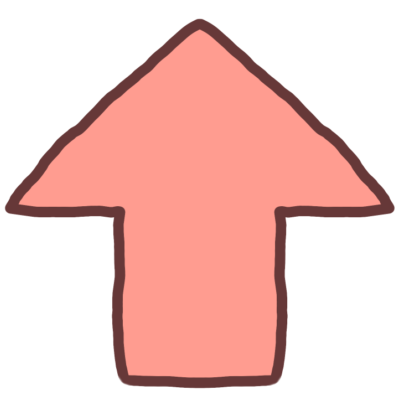
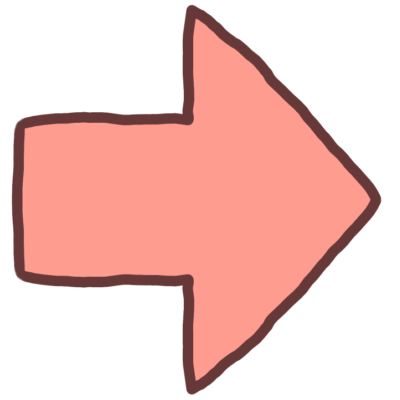
Mapほぼ完成

Changed region(s): [[0.0, 0.0, 0.99, 0.99], [0.75, 0.24, 0.78, 0.27], [0.72, 0.27, 0.75, 0.3]]

diff --git a/src/Map.cpp b/src/Map.cpp
@@ -393,61 +393,125 @@ Map::Map(const InitData& init) :
 		}
 	}
 	};
-
 	//抽選スタート！
-	for (int i = 0;i < 3;i++){
-		std::vector<std::vector<Node>> selected_nodes(10, std::vector<Node>(3)); // 10層、各層に3地点のノードを初期化
-		selected_nodes = map_nodes_source[Random(0, 5)]; // 0から5の範囲でランダムに選択
-		map_nodes.insert(map_nodes.begin() + i * 10, selected_nodes.begin(), selected_nodes.end());
+	if (getData().Layer%10 == 0){
+		map_nodes = map_nodes_source[Random(0, 5)]; // 0から5の範囲でランダムに選択
+		getData().selected_nodes = map_nodes; // 選択されたノードを保存
+	}else{
+		map_nodes = getData().selected_nodes;
 	}
 	//Map生成完了！！
 
+	banner.init(getData().money, getData().Layer); // バナーの初期化
 }
 
 // update() メソッドの実装
 void Map::update() {
-	
+	deck_mode = banner.update(getData().Deck); // バナーの更新
+	if (deck_mode)return;
+
+	move_x = -Clamp(getData().Layer - 2, 0, 4) * 300; // マップの移動量を計算
+	vector<tuple<Node, Circle, int>> next_node; // 次のノードとその位置
+	if (map_nodes[getData().Layer % 10][getData().Index].NextLayerIndex & 1) {
+		next_node.push_back(make_tuple(map_nodes[getData().Layer + 1][0], Circle{ move_x + 200 + (getData().Layer + 1) * 300, 420 + 0 * 265, 100.0 }, 0)); // 上層
+	}
+	if (map_nodes[getData().Layer % 10][getData().Index].NextLayerIndex & 2) {
+		next_node.push_back(make_tuple(map_nodes[getData().Layer + 1][1], Circle{ move_x + 200 + (getData().Layer + 1) * 300, 420 + 1 * 265, 100.0 }, 1)); // 中層
+	}
+	if (map_nodes[getData().Layer % 10][getData().Index].NextLayerIndex & 4) {
+		next_node.push_back(make_tuple(map_nodes[getData().Layer + 1][2], Circle{ move_x + 200 + (getData().Layer + 1) * 300, 420 + 2 * 265, 100.0 }, 2)); // 下層
+	}
+	hovered_index = -1;
+	for (const auto& [node, circle, index] : next_node) {
+		bool is_hovered = circle.mouseOver(); // ノードがホバーされているかどうかをチェック
+		if (is_hovered) {
+			Cursor::RequestStyle(CursorStyle::Hand); // カーソルスタイルを更新
+			hovered_index = index; // ホバーされているノードのインデックスを保存
+		}
+		//クリック！！
+		if (is_hovered && MouseL.down()) {
+			getData().Layer++; // 次の層に移動
+			getData().Index = index; // インデックスをセット
+			if (node.type == MapPointType::Shop) {
+				changeScene(State::Shop, 2s); // ショップに移動
+			} else if (node.type == MapPointType::Boss) {
+				changeScene(State::Battle, 2s); // ボス戦に移動
+			} else if (node.type == MapPointType::Event) {
+				//changeScene(State::Event, 2s); // イベントに移動
+			} else if (node.type == MapPointType::Elite) {
+				changeScene(State::Battle, 2s); // エリート戦に移動
+			} else if (node.type == MapPointType::Enemy) {
+				changeScene(State::Battle, 2s); // 通常戦闘に移動
+			} else if (node.type == MapPointType::Treasure) {
+				//changeScene(State::Battle, 2s); // 宝箱を開けるための戦闘に移動
+			}
+		}
+	}
 
 }
 
 // draw() メソッドの実装
 void Map::draw() const {
+	if (deck_mode) {
+		banner.draw(); // デッキモードのバナーを描画
+		return;
+	}
 	// 現在の層に応じた背景画像を描画
-	background_imgs.at(getData().Layer / 10).draw();
+	background_imgs.at((getData().Layer) / 10).draw();
 
 	// 現在の層のノードを描画
 	for (int i = 0; i < 10; i++) {
 		for (int j = 0; j < 3; j++) {
 			const Node& node = map_nodes[i][j];
+			bool NextVisit = (getData().Layer % 10 + 1 == i) && map_nodes[getData().Layer % 10][getData().Index].NextLayerIndex & (1 << j); // 次の層のインデックスを取得
+			bool hovered = NextVisit && (hovered_index == j); // ホバーされているかどうかをチェック
 			Texture icon;
-
 			switch (node.type) {
 			case Boss:
-				icon = boss_icon;
+				icon = hovered ? boss_icon_1 : boss_icon; // ホバーされている場合は特別なアイコンを使用
 				break;
 			case Elite:
-				icon = elite_icon;
+				icon = hovered ? elite_icon_1 : elite_icon; // ホバーされている場合は特別なアイコンを使用
 				break;
 			case Event:
-				icon = event_icon;
+				icon = hovered ? event_icon_1 : event_icon; // ホバーされている場合は特別なアイコンを使用
 				break;
 			case Shop:
-				icon = shop_icon;
+				icon = hovered ? shop_icon_1 : shop_icon; // ホバーされている場合は特別なアイコンを使用
 				break;
 			case Enemy:
-				icon = enemy_icon_0;
+				icon = hovered ? enemy_icon_1 : enemy_icon; // ホバーされている場合は特別なアイコンを使用
 				break;
 			case Treasure:
-				icon = treasure_icon;
+				icon = hovered ? treasure_icon_1 : treasure_icon; // ホバーされている場合は特別なアイコンを使用
 				break;
 			default:
 				continue; // Noneの場合は何もしない
 			}
-
-			// アイコンを描画
-			icon.drawAt(100 + j * 50, 100 + i * 50); // 適当な位置に描画
+			{
+				double node_alpha = (getData().Layer%10 < i) ? 0.0 : 0.6; // 現在の層より上の層は半透明
+				if ((node_alpha == 0.6) && (getData().Layer%10 == i) && (getData().Index == j)) {
+					node_alpha = 0.0;
+				}
+				const ScopedColorMul2D colorMul{ ColorF{ 1.0 - node_alpha, 1.0 - node_alpha, 1.0 - node_alpha } };
+				double size = 1.0 + (NextVisit ? Periodic::Sine1_1(1.5s) * 0.14 + 0.05 : 0.0); // 次の訪問地点はサイズが変化
+				if (hovered) size = 1.2;
+				// アイコンを描画
+				icon.scaled(size).drawAt(move_x + 200 + i * 300, 420 + j * 265); // 適当な位置に描画
+				// 矢印を描画
+				for (int k = 0; k < 3; k++) {
+					if (map_nodes[i][j].NextLayerIndex & (1 << k)) {
+						double angle = atan2(100 * (k - j), 75.0);
+						double distance = sqrt(170 * 170 * (j - k) * (j - k) + 90.0 * 90.0) / 100;
+						arrow_icon.scaled(0.25 * distance, 0.25).rotated(angle).drawAt(move_x + 350.0 + i * 300, 440.0 + 132.5 * (j + k));
+					}
+				}
+			}
 		}
 	}
+	//TODO:主人公ちゃんの描画
 
+	// バナーの描画
+	banner.draw();
 }
 

diff --git a/src/Shop.cpp b/src/Shop.cpp
@@ -20,6 +20,7 @@ void Shop::update() {
     /////////////////////////////////////////////////////////////////////
     if (!void_normal_1) {
         bool isHovered_normal_1 = RoundRect{ 350, 500, 300, 100,20 }.mouseOver();
+        if (isHovered_normal_1)Cursor::RequestStyle(CursorStyle::Hand);
         //カードの購入処理
         if (isHovered_normal_1 && MouseL.down()) {
             if (getData().money >= 50) {
@@ -45,6 +46,7 @@ void Shop::update() {
     ////////////////////////////////////////////////////////////////////
     if (!void_normal_2) {
         bool isHovered_normal_2 = RoundRect{ 650, 500, 300, 100,20 }.mouseOver();
+        if (isHovered_normal_2)Cursor::RequestStyle(CursorStyle::Hand);
         //カードの購入処理
         if (isHovered_normal_2 && MouseL.down()) {
             if (getData().money >= 50) {
@@ -69,6 +71,7 @@ void Shop::update() {
     ////////////////////////////////////////////////////////////////////
     if (!void_uncommon) {
         bool isHovered_uncommon = RoundRect{ 950, 500, 300, 100,20 }.mouseOver();
+        if (isHovered_uncommon)Cursor::RequestStyle(CursorStyle::Hand);
         //カードの購入処理
         if (isHovered_uncommon && MouseL.down()) {
             if (getData().money >= 100) {
@@ -93,7 +96,7 @@ void Shop::update() {
     ////////////////////////////////////////////////////////////////////
     if (!void_rare) {
         bool isHovered_rare = RoundRect{ 1250, 500, 300, 100,20 }.mouseOver();
-        //カードの購入処理
+        if (isHovered_rare)Cursor::RequestStyle(CursorStyle::Hand);
         if (isHovered_rare && MouseL.down()) {
             if (getData().money >= 150) {
                 getData().Deck.push_back(rare);
@@ -118,14 +121,16 @@ void Shop::update() {
 
 
     //戻るボタンの更新
-    if (MouseL.down() && RectF { 1600, 800, 225, 225 }.mouseOver()) {
-        //TODO: 戻るボタンが押された場合の処理
+    bool isHovered_return = RectF{ 1600, 800, 225, 225 }.mouseOver();
+    if (isHovered_return)Cursor::RequestStyle(CursorStyle::Hand);
+    if (MouseL.down() && isHovered_return) {
+        changeScene(State::Map, 0.5s);
         return;
     }
-    if (return_alpha < 0.4 && RectF{ 1600, 800, 225, 225 }.mouseOver()) {
+    if (return_alpha < 0.4 && isHovered_return) {
         return_alpha += 0.1;
         if (return_alpha > 0.4) return_alpha = 0.4;
-    } else if (return_alpha > 0.0 && !RectF{ 1600, 800, 225, 225 }.mouseOver()) {
+    } else if (return_alpha > 0.0 && !isHovered_return) {
         return_alpha -= 0.1;
         if (return_alpha < 0.0) return_alpha = 0.0;
     }

diff --git a/src/Map.hpp b/src/Map.hpp
@@ -5,29 +5,14 @@
 #include <vector>
 #include <string>
 #include "common.hpp"
-
-enum class MapPointType {
-	Boss,
-	Elite,
-	Event,
-	Shop,
-	Enemy,
-	Treasure,
-	None,
-};
-
-struct Node {
-	MapPointType type = MapPointType::None;
-	bool isVisited = false;
-	int NextLayerIndex = 0; // 次の層のインデックス (1:上層, 2:中層, 4:下層)
-};
+#include "Banner.hpp"
 
 // Mapシーンを表すクラス
 class Map : public App::Scene {
 	//画像の読み込み
 	std::vector<Texture> background_imgs;
-	Texture enemy_icon_0 = Texture{ U"../../image/map_enemy_teki.png" };
-	Texture enemy_icon_1 = Texture{ U"../../image/map_enemy_teki_1.png" };
+	Texture enemy_icon = Texture{ U"../../image/map_teki.png" };
+	Texture enemy_icon_1 = Texture{ U"../../image/map_teki_1.png" };
 	Texture elite_icon = Texture{ U"../../image/map_elite.png" };
 	Texture elite_icon_1 = Texture{ U"../../image/map_elite_1.png" };
 	Texture boss_icon = Texture{ U"../../image/map_boss.png" };
@@ -44,10 +29,14 @@ class Map : public App::Scene {
 	std::vector<std::vector<Node>> map_nodes; // 各地点の情報を保持するノードの配列
 	//Map情報(抽選用)
 	std::vector<std::vector<std::vector<Node>>> map_nodes_source; // 抽選用のノードの配列
-	//現在地
-	int currentLayerIndex = 0; // 現在の層のインデックス (0から2)
-	int mode = 0; // モード (0:待機, 1:移動中, 2:イベント発生中)
 
+	int hovered_index = -1; // ホバーしているノードのインデックス
+	//Mapの移動
+	int move_x = 0;
+	//移動先決定後
+
+	Banner banner; // バナー表示用
+	bool deck_mode = false; // デッキモードのフラグ
 public:
 	Map(const InitData& init);
 

diff --git a/src/Deck.cpp b/src/Deck.cpp
@@ -34,7 +34,7 @@ bool Deck::update() {
 		now_y = Clamp(now_y - wheel * 75, -max_y, 0.0); //ホイールでスクロール
 		is_pushed = (RectF{ 1600, 800, 225, 225 }.mouseOver());
 		if (is_pushed && MouseL.up()) return false; //戻るボタンが押された場合はfalseを返す
-
+		Cursor::RequestStyle(is_pushed ? CursorStyle::Hand : CursorStyle::Default);
 		if (fade_alpha < 0.4 && is_pushed) {
 			fade_alpha += 0.1;
 			if (fade_alpha > 0.4) fade_alpha = 0.4;
@@ -51,10 +51,14 @@ void Deck::draw() const {
 	background_img.draw(0, 0, ColorF{ 1.0, 1.0, 1.0 });
 	//デッキ画像を描画
 	for (int i = 0;i < deck_size;i++) {
-		if (fade_mode) {
-			deck_data.at(i).Draw({ card_pos.at(i).first, card_pos.at(i).second + now_y }, card_fade.at(i), M_PI * (1.0 - card_fade.at(i)), card_fade.at(i));
-		} else {
-			deck_data.at(i).Draw({ card_pos.at(i).first, card_pos.at(i).second + now_y }, 1.0, 0.0, 1.0);
+		{
+			double card_fade_value = (deck_data.at(i).GetStat() == -1) ? 0.5 : 1.0;
+			const ScopedColorMul2D colorMul{ ColorF{ card_fade_value, card_fade_value, fade_alpha } };
+			if (fade_mode) {
+				deck_data.at(i).Draw({ card_pos.at(i).first, card_pos.at(i).second + now_y }, card_fade.at(i), M_PI * (1.0 - card_fade.at(i)), card_fade.at(i));
+			} else {
+				deck_data.at(i).Draw({ card_pos.at(i).first, card_pos.at(i).second + now_y }, 1.0, 0.0, 1.0);
+			}
 		}
 	}
 	//戻るボタン

diff --git a/src/Banner.cpp b/src/Banner.cpp
@@ -22,6 +22,7 @@ bool Banner::update(vector<Block>& deck_data) {
         return true; // デッキモードに入っている場合はtrueを返す
     }
     isHovered_deck = RectF{ 1520, 0, 150, 150 }.mouseOver();
+    Cursor::RequestStyle(isHovered_deck ? CursorStyle::Hand : CursorStyle::Default);
     if (isHovered_deck && MouseL.up()) {
         deck.init(deck_data); // デッキの初期化
         deck_mode = true; // デッキモードに入る
@@ -44,7 +45,7 @@ void Banner::draw() const {
     money_img.draw(500, 20);
     if (!deck_mode) {
         {
-            const const ScopedColorMul2D colorMul{ ColorF{ 1.0 - deck_alpha, 1.0 - deck_alpha, 1.0 - deck_alpha } };
+            const ScopedColorMul2D colorMul{ ColorF{ 1.0 - deck_alpha, 1.0 - deck_alpha, 1.0 - deck_alpha } };
             double scale = 1.0 - ((deck_alpha <= 0.4) ? (deck_alpha * 0.05) : 0.0); // アルファ値に応じて拡大
             deck_img.scaled(0.5 * scale).draw(1520, 0);
         }

diff --git a/src/Main.cpp b/src/Main.cpp
@@ -1,7 +1,7 @@
 # include <Siv3D.hpp> // Siv3D v0.6.16
 # include "common.hpp"
 # include "Title.hpp"
-//# include "Map.hpp"
+# include "Map.hpp"
 //# include "Battle.hpp"
 //# include "Result.hpp"
 # include "Shop.hpp"
@@ -20,11 +20,11 @@ void Main()
 	//フルスクリーン
 	//Window::SetFullscreen(true);
 	//タイトル
-	Window::SetTitle(U"ShoutWars");
+	Window::SetTitle(U"Arithmancer");
 
 	App manager;
 	manager.add<Title>(State::Title);
-	//manager.add<Map>(State::Map);
+	manager.add<Map>(State::Map);
 	//manager.add<Battle>(State::Battle);
 	//manager.add<Result>(State::Result);
 	manager.add<Shop>(State::Shop);
@@ -32,7 +32,7 @@ void Main()
 
 	//XXX:debug用
 	//開始シーンを指定する
-	manager.init(State::Shop);
+	manager.init(State::Map);
 
 	while (System::Update() && manager.update()) {};
 }

diff --git a/src/common.hpp b/src/common.hpp
@@ -14,6 +14,23 @@ enum class State
 	Shop
 };
 
+// マップのポイントタイプ
+enum class MapPointType {
+	Boss,
+	Elite,
+	Event,
+	Shop,
+	Enemy,
+	Treasure,
+	None,
+};
+// マップのノードデータ
+struct Node {
+	MapPointType type = MapPointType::None;
+	bool isVisited = false;
+	int NextLayerIndex = 0; // 次の層のインデックス (1:上層, 2:中層, 4:下層)
+};
+
 // 共有するデータ
 struct GameData
 {
@@ -31,11 +48,15 @@ struct GameData
 		Block("+\n*")
 	};
 	int Layer = 0;
+	int Index = 1; // 現在のマップのインデックス
 	int HP = 80;
 	int MaxHP = 80;
 	int money = 100;
 	//Board board;
 	long long status = 0; // 状態
+
+	// Map Data
+	std::vector<std::vector<Node>> selected_nodes;
 
 	//Shop のカードデータ
 	// 通常カード
